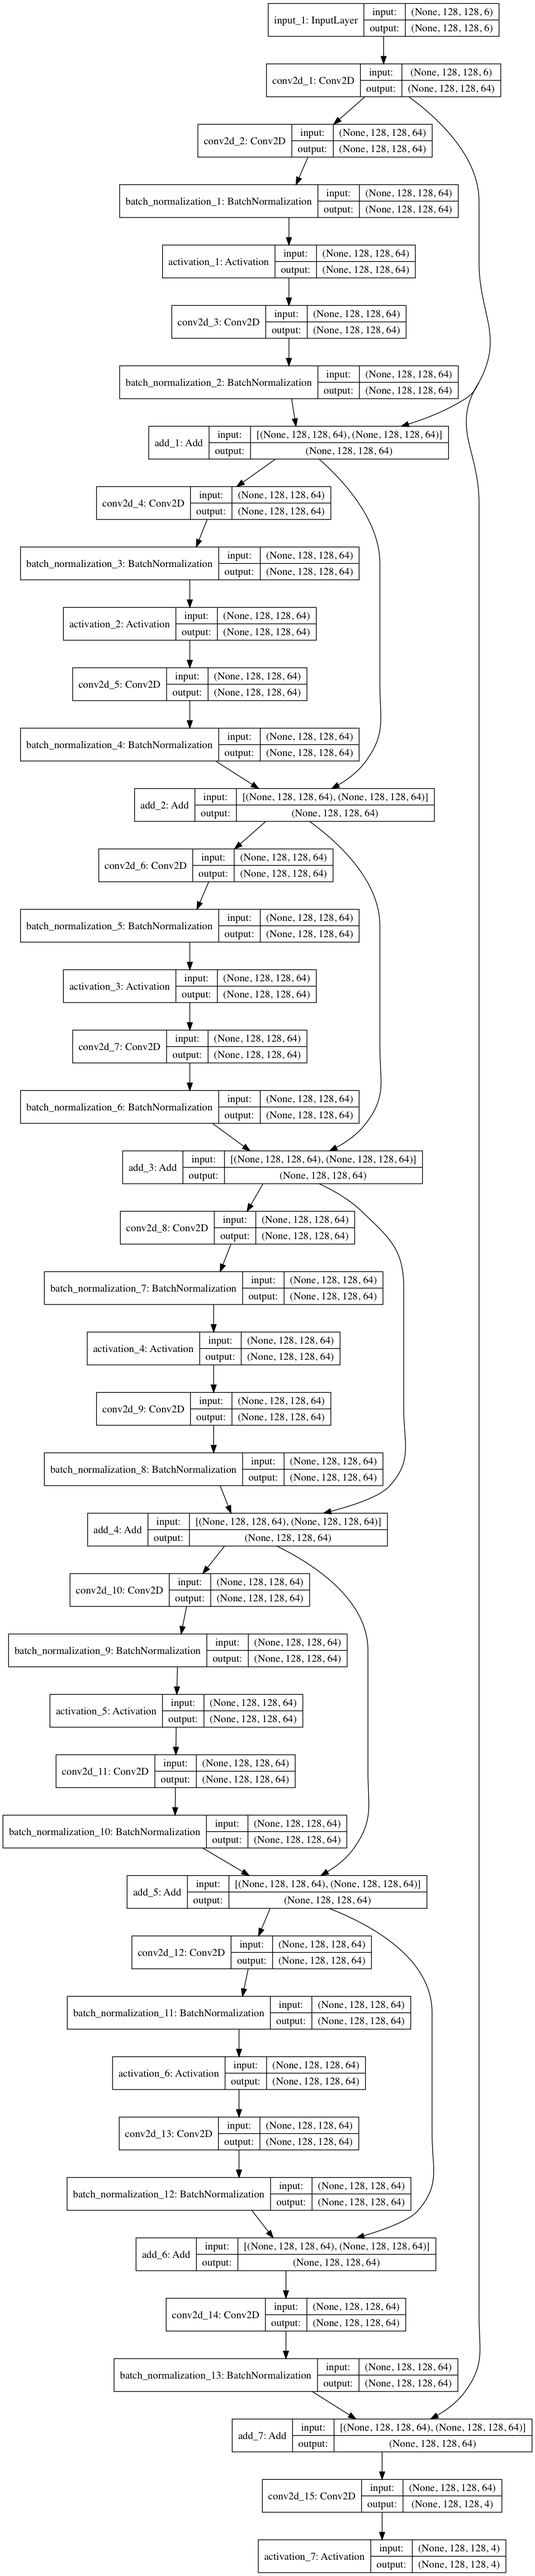
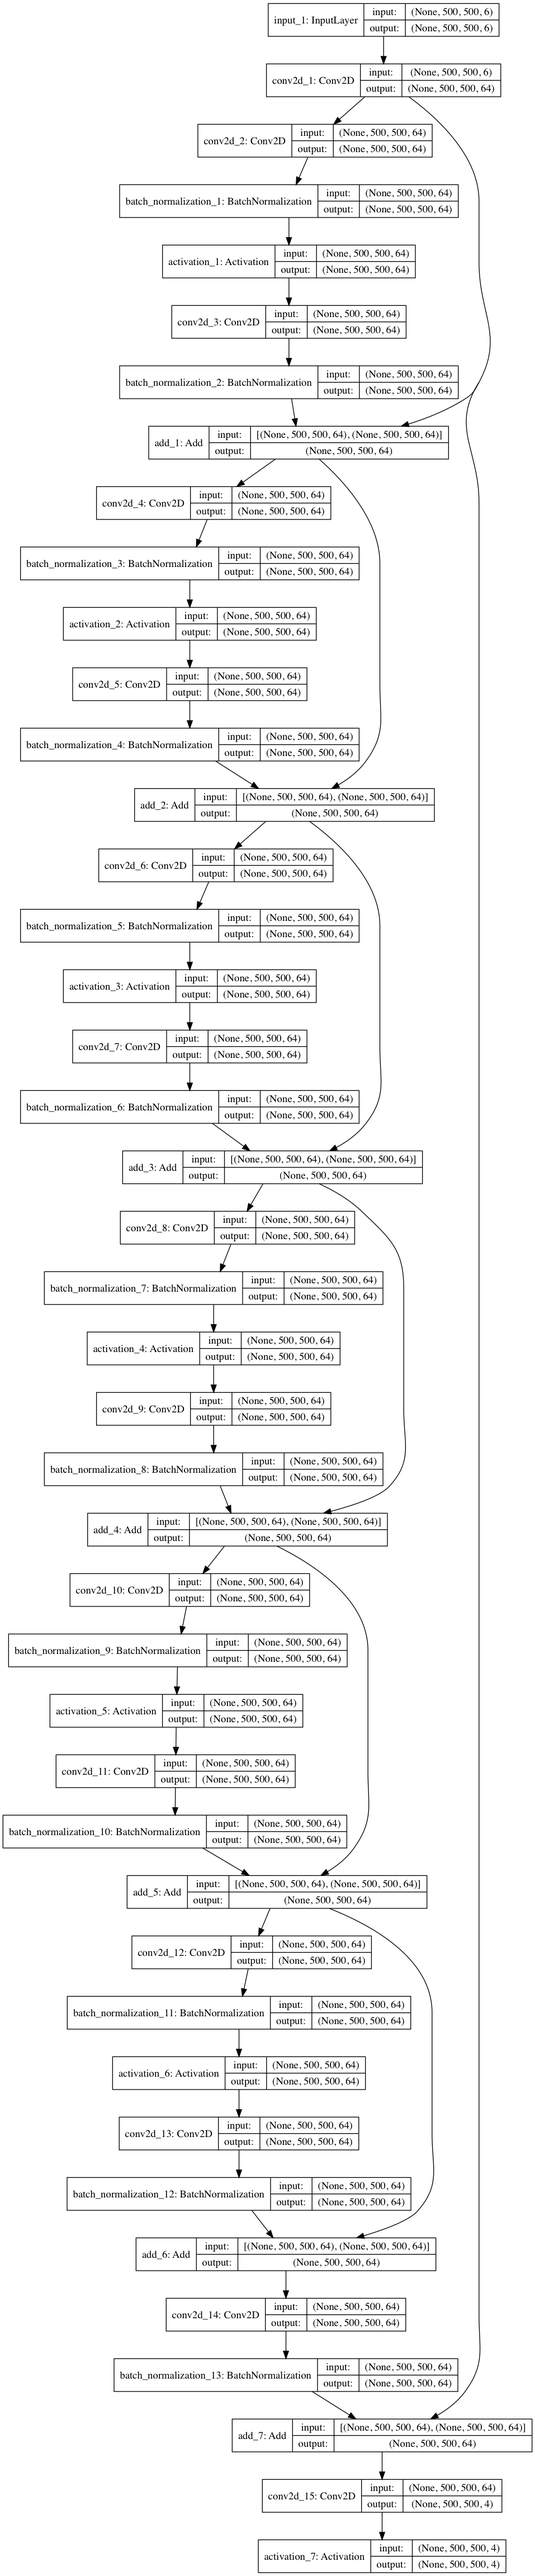
minor changes

diff --git a/models/SegNet.py b/models/SegNet.py
@@ -1,6 +1,6 @@
 from keras.models import Model
 from keras.layers import Input
-from keras.layers.core import Layer, Activation, Reshape
+from keras.layers.core import Layer, Activation, Reshape, Permute
 from keras.layers.normalization import BatchNormalization
 from keras.layers.convolutional import Conv2D, MaxPooling2D, UpSampling2D, ZeroPadding2D
 
@@ -23,53 +23,45 @@ def segnet(inputShape, nClasses):
 
     inputs = Input(shape=inputShape)
         
-    # encoder
-    x = ZeroPadding2D(padding= pad)(inputs)
-    x = Conv2D(filter_size, kernel, padding='valid')(x)
+    # Encoder
+    x = Conv2D(64, kernel, padding='same')(inputs)
     x = BatchNormalization()(x)
     x = Activation('relu')(x)
     x = MaxPooling2D(pool_size=pool_size)(x)
             
-    x = ZeroPadding2D(padding= pad)(x)
-    x = Conv2D(128, kernel, padding='valid')(x)
+    x = Conv2D(128, kernel, padding='same')(x)
     x = BatchNormalization()(x)
     x = Activation('relu')(x)
     x = MaxPooling2D(pool_size=pool_size)(x)
             
-    x = ZeroPadding2D(padding= pad)(x)
-    x = Conv2D(256, kernel, padding='valid')(x)
+    x = Conv2D(256, kernel, padding='same')(x)
     x = BatchNormalization()(x)
     x = Activation('relu')(x)
     x = MaxPooling2D(pool_size=pool_size)(x)
             
-    x = ZeroPadding2D(padding= pad)(x)
-    x = Conv2D(512, kernel, padding='valid')(x)
+    x = Conv2D(512, kernel, padding='same')(x)
     x = BatchNormalization()(x)
     x = Activation('relu')(x)
             
             
-    # decoder
-    x = ZeroPadding2D(padding = pad)(x)
-    x = Conv2D(512, kernel, padding='valid')(x)
+    # Decoder
+    x = Conv2D(512, kernel, padding='same')(x)
     x = BatchNormalization()(x)
     x = UpSampling2D(size=pool_size)(x)
             
-    x = ZeroPadding2D(padding= pad)(x)
-    x = Conv2D(256, kernel, padding='valid')(x)
+    x = Conv2D(256, kernel, padding='same')(x)
     x = BatchNormalization()(x)
     x = UpSampling2D(size=pool_size)(x)
             
-    x = ZeroPadding2D(padding = pad)(x)
-    x = Conv2D(128, kernel, padding='valid')(x)
+    x = Conv2D(128, kernel, padding='same')(x)
     x = BatchNormalization()(x)
     x = UpSampling2D(size=pool_size)(x)
             
-    x = ZeroPadding2D(padding = pad)(x)
-    x = Conv2D(filter_size, kernel, padding='valid')(x)
+    x = Conv2D(64, kernel, padding='same')(x)
     x = BatchNormalization()(x)
             
     x = Conv2D(nClasses, (1, 1), padding='valid')(x)
-            
+    
     outputs = Activation('softmax')(x)
         
     model = Model(inputs=inputs, outputs=outputs)
@@ -77,7 +69,7 @@ def segnet(inputShape, nClasses):
     return model
 
 if __name__ == '__main__':
-    model = segnet((128,128,6), 4)
+    model = segnet((496,496,6), 4)
     model.summary()
     from keras.utils import plot_model
     plot_model(model , show_shapes=True , to_file='SegNet.png')

diff --git a/models/.ipynb_checkpoints/DeepVel-checkpoint.py b/models/.ipynb_checkpoints/DeepVel-checkpoint.py
@@ -51,7 +51,7 @@ def deepvel(inputShape, nClasses):
     return model
 
 if __name__ == '__main__':
-    model = deepvel((128,128,6), 4)
+    model = deepvel((500,500,6), 4)
     model.summary()
     from keras.utils import plot_model
     plot_model(model, show_shapes=True , to_file='DeepVel.png')

diff --git a/models/DeepVel.py b/models/DeepVel.py
@@ -51,7 +51,7 @@ def deepvel(inputShape, nClasses):
     return model
 
 if __name__ == '__main__':
-    model = deepvel((128,128,6), 4)
+    model = deepvel((500,500,6), 4)
     model.summary()
     from keras.utils import plot_model
     plot_model(model, show_shapes=True , to_file='DeepVel.png')
